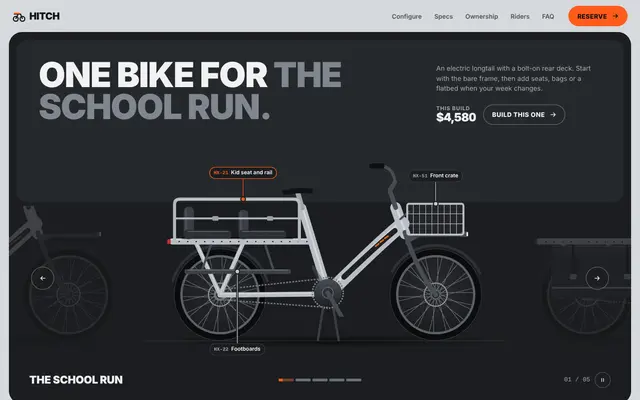
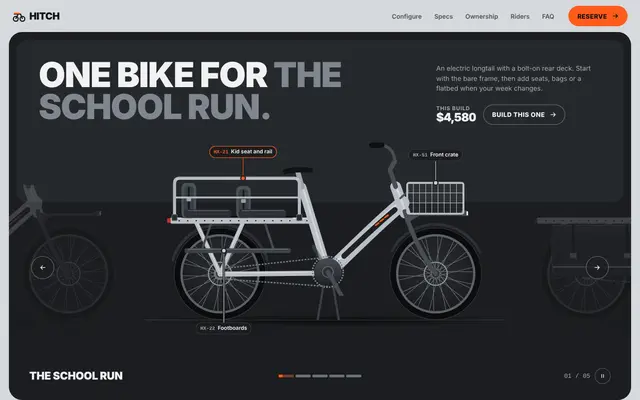
hitch-cargo-landing: round 3 log (REDO, 7.83) and the clear-cut fixes it found
Claude-Session: https://claude.ai/code/session_013ia6pRmWiwMqvxFcgNDGPN

diff --git a/components/hitch-cargo-landing/hitch-cargo-landing.tsx b/components/hitch-cargo-landing/hitch-cargo-landing.tsx
@@ -435,13 +435,13 @@ const BB = [520, 415]
 /** Built-in callouts: where each part's leader points, and where its tag sits. */
 const CALLOUTS = {
   seat: { a: [300, 172], t: [300, 104] },
-  footboards: { a: [285, 360], t: [285, 562] },
+  footboards: { a: [250, 360], t: [250, 562] },
   flatbed: { a: [470, 226], t: [470, 112] },
-  panniers: { a: [330, 384], t: [330, 562] },
+  panniers: { a: [250, 410], t: [250, 562] },
   toolbox: { a: [285, 164], t: [285, 104] },
   box: { a: [250, 96], t: [250, 40] },
   basket: { a: [800, 184], t: [800, 112] },
-  battery: { a: [430, 340], t: [455, 562] },
+  battery: { a: [455, 340], t: [455, 562] },
 } as { [id: string]: { a: number[]; t: number[] } }
 
 const DIM_LABELS = [
@@ -495,19 +495,23 @@ function BuiltinArt({ id }: { id: string }) {
       return (
         <g>
           <rect x={140} y={270} width={290} height={6} rx={3} className="hx-m-contact" />
-          <rect x={146} y={192} width={26} height={84} rx={11} className="hx-m-pad" />
-          <rect x={150} y={198} width={4} height={60} rx={2} className="hx-m-seam" />
+          <rect x={140} y={184} width={38} height={92} rx={13} className="hx-m-shell" />
+          <rect x={146} y={192} width={26} height={70} rx={10} className="hx-m-pad" />
+          <path d="M159 196V258" className="hx-m-harness" strokeWidth={5} strokeLinecap="round" />
+          <rect x={153} y={222} width={12} height={10} rx={2} className="hx-m-buckle" />
           <rect x={146} y={252} width={124} height={22} rx={9} className="hx-m-pad2" />
-          <rect x={288} y={200} width={26} height={76} rx={11} className="hx-m-pad" />
-          <rect x={292} y={206} width={4} height={52} rx={2} className="hx-m-seam" />
+          <rect x={282} y={192} width={38} height={84} rx={13} className="hx-m-shell" />
+          <rect x={288} y={200} width={26} height={62} rx={10} className="hx-m-pad" />
+          <path d="M301 204V258" className="hx-m-harness" strokeWidth={5} strokeLinecap="round" />
+          <rect x={295} y={226} width={12} height={10} rx={2} className="hx-m-buckle" />
           <rect x={288} y={252} width={124} height={22} rx={9} className="hx-m-pad2" />
           <path d="M156 256H262M298 256H404" className="hx-m-lit" strokeWidth={2} strokeLinecap="round" />
           <path d="M152 266H264M294 266H406" className="hx-m-stitch" strokeWidth={1.2} strokeDasharray="4 4" />
           <path d="M122 280L122 186Q122 172 136 172L432 172Q446 172 446 186L446 280" className="hx-m-rail" strokeWidth={8} fill="none" strokeLinecap="round" />
           <path d="M122 222L446 222" className="hx-m-rail" strokeWidth={5} fill="none" />
           <path d="M126 174L444 174" className="hx-m-glint" strokeWidth={2} fill="none" />
-          <rect x={220} y={216} width={16} height={12} rx={3} className="hx-m-buckle" />
-          <rect x={362} y={216} width={16} height={12} rx={3} className="hx-m-buckle" />
+          <rect x={115} y={266} width={14} height={16} rx={3} className="hx-m-clampblock" />
+          <rect x={439} y={266} width={14} height={16} rx={3} className="hx-m-clampblock" />
         </g>
       )
     case "footboards":
@@ -899,7 +903,7 @@ const DEFAULT_LABELS: HitchLabels = {
   fewer: "One bike fewer",
   more: "One bike more",
   fleetTotal: "Fleet total",
-  perMonth: "Per month, {months} months",
+  perMonth: "Monthly, {months} mo",
   summary: "Live build",
 }
 
@@ -987,7 +991,7 @@ const PRESETS: { [K in HitchPreset]: Content } = {
       rows: [
         { label: "Motor", value: "Mid-drive, 85 Nm" },
         { label: "Battery", value: "500 Wh, removable" },
-        { label: "Range", value: "Up to 90 km, 165 km with two" },
+        { label: "Range", value: "Up to 90 km, 165 km with a second battery" },
         { label: "Drive", value: "Belt, 5-speed hub" },
         { label: "Brakes", value: "4-piston hydraulic discs" },
         { label: "Wheels", value: "20 in, 2.4 in tyres" },
@@ -1083,7 +1087,7 @@ const PRESETS: { [K in HitchPreset]: Content } = {
       rows: [
         { label: "Motor", value: "Mid-drive, 90 Nm" },
         { label: "Battery", value: "500 Wh, depot-swappable" },
-        { label: "Range", value: "85 km, 160 km with two" },
+        { label: "Range", value: "85 km, 160 km with the shift battery" },
         { label: "Drive", value: "Belt, automatic hub" },
         { label: "Brakes", value: "4-piston hydraulic discs" },
         { label: "Max load", value: "220 kg, rider included" },
@@ -1387,7 +1391,6 @@ function Hero({
           ) : null}
         </div>
       </div>
-      <p className="hx-hero-note">{c.hero.body}</p>
     </section>
   )
 }
@@ -1414,15 +1417,34 @@ function Configurator({
   const hid = x.ids("configure-h")
   const qid = x.ids("configure-q")
   const artRef = React.useRef(null as HTMLDivElement | null)
+  const ctaRef = React.useRef(null as HTMLDivElement | null)
   const [artSeen, setArtSeen] = React.useState(true)
+  const [ctaSeen, setCtaSeen] = React.useState(false)
 
-  // the phone dock shows only once the drawing has scrolled away
+  // the phone dock shows only between the drawing scrolling away and the button arriving.
+  // Measured on scroll: an IntersectionObserver misses a jump straight past the drawing.
   React.useEffect(() => {
-    const el = artRef.current
-    if (!el || typeof IntersectionObserver !== "function") return
-    const io = new IntersectionObserver(([e]) => setArtSeen(e.isIntersecting), { threshold: 0.15 })
-    io.observe(el)
-    return () => io.disconnect()
+    let raf = 0
+    const measure = () => {
+      raf = 0
+      const plate = artRef.current && (artRef.current.querySelector(".hx-plate") as HTMLElement | null)
+      const cta = ctaRef.current
+      if (!plate || !cta) return
+      const r = plate.getBoundingClientRect()
+      setArtSeen(r.top + r.height / 2 > 0)
+      setCtaSeen(cta.getBoundingClientRect().top < innerHeight - 40)
+    }
+    const on = () => {
+      if (!raf) raf = requestAnimationFrame(measure)
+    }
+    measure()
+    addEventListener("scroll", on, { passive: true })
+    addEventListener("resize", on)
+    return () => {
+      removeEventListener("scroll", on)
+      removeEventListener("resize", on)
+      if (raf) cancelAnimationFrame(raf)
+    }
   }, [])
   const mountLabel = (id: string) => (mounts.find((m) => m.id === id) || { label: id }).label
 
@@ -1544,7 +1566,7 @@ function Configurator({
         <p className="hx-note" aria-live="polite">
           {note}
         </p>
-        <div className="hx-config-cta">
+        <div className="hx-config-cta" ref={ctaRef}>
           {x.sections.includes("reserve") ? (
             <a className="hx-btn hx-btn-accent" href="#reserve">
               <span>{c.reserve.button}</span>
@@ -1563,18 +1585,20 @@ function Configurator({
             {L.startOver}
           </button>
         </div>
-      </div>
-      <div className="hx-dock" aria-hidden="true" data-show={artSeen ? "false" : "true"}>
-        <div className="hx-dock-plate">
-          <Plate modules={build} catalog={catalog} look={look} />
+        <div className="hx-dock-wrap">
+        <div className="hx-dock" aria-hidden="true" data-show={artSeen || ctaSeen ? "false" : "true"}>
+          <div className="hx-dock-plate">
+            <Plate modules={build} catalog={catalog} look={look} />
+          </div>
+          <p className="hx-dock-label">{L.summary}</p>
+          <p className="hx-dock-num">
+            {formatMoney(lease ? lease.total : sum.price, c.currency, c.locale)}
+            <small>
+              {formatNumber(sum.weight, c.locale, 1)} {L.kg} / {sum.range} {L.km}
+            </small>
+          </p>
         </div>
-        <p className="hx-dock-label">{L.summary}</p>
-        <p className="hx-dock-num">
-          {formatMoney(lease ? lease.total : sum.price, c.currency, c.locale)}
-          <small>
-            {formatNumber(sum.weight, c.locale, 1)} {L.kg} / {sum.range} {L.km}
-          </small>
-        </p>
+        </div>
       </div>
     </section>
   )
@@ -2259,7 +2283,7 @@ const HX_CSS = `
 .hx-root[data-theme="dark"],.dark .hx-root[data-theme="auto"]{
   --hx-page:#0c0d0e;--hx-page-ink:#f1f2f3;--hx-page-muted:#9ba1a8;--hx-page-line:rgba(255,255,255,.1);
   --hx-panel:#1a1c1f;--hx-card:#24272b;
-  --hx-paper:#24272b;--hx-paper-ink:#f1f2f3;--hx-paper-muted:#a3a9b0;--hx-paper-line:rgba(255,255,255,.1);
+  --hx-paper:#2b2f34;--hx-paper-ink:#f1f2f3;--hx-paper-muted:#a3a9b0;--hx-paper-line:rgba(255,255,255,.1);
 }
 .hx-root *,.hx-root *::before,.hx-root *::after{box-sizing:border-box}
 .hx-root :where(h1,h2,h3,p,ul,ol,dl,dd,figure,blockquote,fieldset){margin:0;padding:0}
@@ -2332,7 +2356,7 @@ const HX_CSS = `
 .hx-main:focus{outline:none}
 .hx-main{display:flex;flex-direction:column;gap:var(--hx-gut);padding:0 var(--hx-gut)}
 .hx-sheet,.hx-hero{scroll-margin-top:84px;position:relative;background:var(--hx-panel);color:var(--hx-ink);border-radius:var(--hx-r);padding:clamp(22px,4vw,56px)}
-.hx-root[data-theme="dark"] .hx-paper,.dark .hx-root[data-theme="auto"] .hx-paper{--hx-comp:#5d636a}
+.hx-root[data-theme="dark"] .hx-paper,.dark .hx-root[data-theme="auto"] .hx-paper{--hx-comp:#5d636a;box-shadow:inset 0 0 0 1px rgba(255,255,255,.07)}
 .hx-paper{--hx-comp:#2a2d31;background:var(--hx-paper);color:var(--hx-paper-ink);--hx-muted:var(--hx-paper-muted);--hx-line:var(--hx-paper-line)}
 .hx-h1,.hx-h2{font-family:var(--hx-display);font-weight:900;text-transform:uppercase;letter-spacing:-.025em;line-height:.92;text-wrap:balance}
 .hx-h2{font-size:clamp(34px,5.2cqi,76px);margin-bottom:16px}
@@ -2354,8 +2378,7 @@ const HX_CSS = `
 .hx-h1-tail{color:#80868e}
 .hx-word{display:inline-block;animation:hx-word .55s var(--hx-ease) both}
 .hx-hero-side{display:flex;flex-direction:column;gap:18px}
-.hx-hero-body{display:none;color:var(--hx-muted);max-width:40ch;font-size:15px}
-.hx-hero-note{color:var(--hx-muted);font-size:15px;padding:2px 8px 10px;max-width:46ch}
+.hx-hero-body{color:var(--hx-muted);max-width:40ch;font-size:15px}
 .hx-hero-buy{display:flex;align-items:center;justify-content:space-between;gap:16px;flex-wrap:wrap}
 .hx-hero-buy .hx-btn{height:42px;padding:0 14px 0 16px;font-size:13px}
 .hx-price{display:flex;flex-direction:column;line-height:1.1}
@@ -2453,6 +2476,9 @@ const HX_CSS = `
 .hx-paper .hx-b-shadow-a{stop-opacity:.22}
 .hx-m-pad{fill:#3a3f45}
 .hx-m-pad2{fill:#2b2f34}
+.hx-m-shell{fill:#4b5157}
+.hx-m-harness{stroke:#17181a}
+.hx-m-clampblock{fill:#2a2d31;stroke:#6b7178;stroke-width:1.5}
 .hx-m-seam{fill:#4d535a}
 .hx-m-contact{fill:#000;opacity:.45}
 .hx-m-seamline{stroke:#2e3236}
@@ -2499,7 +2525,7 @@ const HX_CSS = `
 .hx-dimtag{position:absolute;transform:translate(-50%,-50%);font-family:var(--hx-mono);font-size:12px;font-weight:600;line-height:1;padding:5px 8px;border-radius:6px;background:var(--hx-paper);color:var(--hx-paper-ink);white-space:nowrap;font-variant-numeric:tabular-nums}
 
 /* configurator */
-.hx-config{display:grid;grid-template-areas:"head" "art" "side" "dock";gap:clamp(20px,3vw,40px) clamp(20px,3vw,48px)}
+.hx-config{display:grid;grid-template-areas:"head" "art" "side";gap:clamp(20px,3vw,40px) clamp(20px,3vw,48px)}
 .hx-config-head{grid-area:head}
 .hx-config-head .hx-lede{margin-top:-4px}
 .hx-config-art{grid-area:art;display:flex;flex-direction:column;gap:16px;min-width:0}
@@ -2529,6 +2555,7 @@ const HX_CSS = `
 .hx-part-price{font-family:var(--hx-mono);font-size:13px;font-weight:600;font-variant-numeric:tabular-nums;color:var(--hx-muted);padding-top:2px}
 .hx-part[aria-pressed="true"] .hx-part-price{color:var(--hx-ink)}
 .hx-note{min-height:1.5em;font-size:14px;color:var(--hx-muted)}
+.hx-totals div{display:flex;flex-direction:column;justify-content:flex-end}
 .hx-totals-fleet{grid-template-columns:repeat(2,1fr);border-top:0;margin-top:-6px}
 .hx-qty{display:flex;align-items:center;justify-content:space-between;gap:16px;padding:10px 10px 10px 14px;border-radius:14px;background:var(--hx-card)}
 .hx-qty label{font-size:12px;font-weight:800;letter-spacing:.08em;text-transform:uppercase}
@@ -2539,7 +2566,8 @@ const HX_CSS = `
 .hx-qty-ctl button:disabled{opacity:.35;cursor:not-allowed}
 .hx-qty-ctl input{width:72px;height:44px;border:0;border-radius:12px;background:var(--hx-panel);text-align:center;font-family:var(--hx-display);font-weight:900;font-size:22px;font-variant-numeric:tabular-nums;appearance:textfield;-moz-appearance:textfield}
 .hx-qty-ctl input::-webkit-inner-spin-button,.hx-qty-ctl input::-webkit-outer-spin-button{-webkit-appearance:none;margin:0}
-.hx-dock{grid-area:dock;position:sticky;bottom:12px;z-index:5;display:grid;grid-template-columns:104px minmax(0,1fr);grid-template-rows:auto auto;align-items:center;column-gap:14px;padding:6px 16px 6px 6px;border-radius:16px;background:var(--hx-card);box-shadow:0 18px 40px -14px rgba(0,0,0,.7),inset 0 0 0 1px rgba(255,255,255,.1);transition:opacity .2s ease,transform .3s var(--hx-ease),visibility 0s}
+.hx-dock-wrap{position:sticky;bottom:12px;z-index:5;height:0;margin-top:-14px}
+.hx-dock{position:absolute;left:0;right:0;bottom:0;display:grid;grid-template-columns:104px minmax(0,1fr);grid-template-rows:auto auto;align-items:center;column-gap:14px;padding:6px 16px 6px 6px;border-radius:16px;background:var(--hx-card);box-shadow:0 18px 40px -14px rgba(0,0,0,.7),inset 0 0 0 1px rgba(255,255,255,.1);transition:opacity .2s ease,transform .3s var(--hx-ease),visibility 0s}
 .hx-dock[data-show="false"]{opacity:0;transform:translateY(16px);visibility:hidden;transition:opacity .15s ease,transform .15s ease,visibility 0s linear .15s}
 .hx-dock-plate{grid-row:1/3;background:var(--hx-panel);border-radius:11px}
 .hx-dock-label{align-self:end;font-size:11px;font-weight:800;letter-spacing:.08em;text-transform:uppercase;color:var(--hx-muted)}
@@ -2677,7 +2705,6 @@ const HX_CSS = `
   .hx-h1{font-size:clamp(40px,7cqi,80px)}
   .hx-hero-side{flex-direction:row;align-items:flex-end;justify-content:space-between;gap:24px}
   .hx-hero-body{display:block;max-width:46ch}
-  .hx-hero-note{display:none}
   .hx-hero-buy{justify-content:flex-start}
   .hx-hero-buy .hx-btn{height:46px;padding:0 18px 0 20px;font-size:14px}
   .hx-tag,.hx-lead{display:block}
@@ -2700,7 +2727,7 @@ const HX_CSS = `
   .hx-steps{position:relative;grid-template-columns:repeat(4,minmax(0,1fr));column-gap:32px;border-top:0;padding-top:52px}
   .hx-steps::before{content:"";position:absolute;left:0;right:10px;top:18px;height:1.5px;background:var(--hx-ink)}
   .hx-steps::after{content:"";position:absolute;right:0;top:13px;border-left:12px solid var(--hx-ink);border-top:6px solid transparent;border-bottom:6px solid transparent}
-  .hx-step{position:relative;grid-template-columns:1fr;grid-template-areas:"n" "h" "p";gap:10px;align-items:start;padding:20px 0 0;border-bottom:0}
+  .hx-step{position:relative;grid-template-columns:1fr;grid-template-areas:"n" "h" "p";gap:10px;align-items:start;align-content:start;padding:20px 0 0;border-bottom:0}
   .hx-step::before{content:"";position:absolute;left:0;top:-41px;width:1.5px;height:30px;background:var(--hx-ink)}
   .hx-step-time{position:absolute;left:12px;top:-50px;margin:0;padding:3px 8px;border-radius:6px;background:var(--hx-panel);text-align:left;font-size:12px}
   .hx-step-n{font-size:64px}
@@ -2708,10 +2735,11 @@ const HX_CSS = `
   .hx-hero-card{grid-template-columns:minmax(0,2.3fr) minmax(0,1fr);align-items:start;gap:40px}
   .hx-hero-side{flex-direction:column;align-items:stretch;justify-content:flex-start;padding-top:10px}
   .hx-h1{font-size:clamp(40px,5.4cqi,80px)}
+  .hx-stage{margin-top:calc(var(--hx-pw) * -.6 * (var(--hx-ovf) + .09))}
   .hx-spec-grid{grid-template-columns:repeat(3,minmax(0,1fr))}
   .hx-faq{grid-template-columns:minmax(0,1fr) minmax(0,2fr);align-items:start}
   .hx-config{grid-template-columns:minmax(0,1.55fr) minmax(0,1fr);grid-template-areas:"art head" "art side";grid-template-rows:auto 1fr;align-items:start}
-  .hx-dock{display:none}
+  .hx-dock-wrap{display:none}
   .hx-config-art{position:sticky;top:90px}
 }
 @container (max-width:719px){

diff --git a/media/hitch-cargo-landing/review.md b/media/hitch-cargo-landing/review.md
@@ -68,3 +68,31 @@ sheet (riders and ownership were ordinary rows); the phone hero cropped the rear
 neighbour bikes painted over the headline card; dark-mode spec drawing lost its fork and bars;
 part art flatter than the frame; small phone ticks; a thin success state; a forced `<main>` and
 `<h1>` when embedded; the fleet preset mostly a recolour; a lower callout crowding the caption.
+
+## Critic round 3 (new subagent, final round)
+
+Reading: a Slate-style product landing for a modular electric longtail; the hero is a carousel
+of builds on one frame with part-number callouts, and the configurator, the dimensioned spec
+drawing, the dimension-line timeline and the reserve flow keep the "parts catalogue on charcoal
+sheets" language. Banned-looks gate passed.
+
+| u usability | a idea | b craft | c originality | d install-safety | e template | avg |
+|---|---|---|---|---|---|---|
+| 8 | 8 | 7 | 7 | 9 | 8 | 7.83 |
+
+Verdict: **REDO**. Nothing below 7; the critic called every missing point "a fixable craft
+defect, not a concept problem". Three rounds are spent, so the piece goes to
+`claude/review-hitch-cargo-landing` for the owner.
+
+Fixed after round 3 (not re-scored): ownership steps share one baseline; the phone dock shows
+only between the drawing scrolling away and the button arriving (measured on scroll, since an
+observer misses a jump past the drawing) and takes no space when hidden; "with two" range copy
+rewritten; every callout leader vertical; kid seats drawn as shells with harnesses and rail
+clamps; the hero bike rides higher into the headline card on desktop; phone hero copy moved
+under the headline; the monthly label shortened and stats bottom-aligned; dark-mode paper
+sheets lifted with a hairline.
+
+Left for the owner: the section order is still close to a familiar product page (hero,
+configurator, specs, steps, testimonial, form, FAQ, footer); the template only fits a modular
+product drawn in a 1000 x 600 plate; the flat vector bike is less arresting than the reference's
+photo (any build can take `productImage` and part `image`s once photos load).
